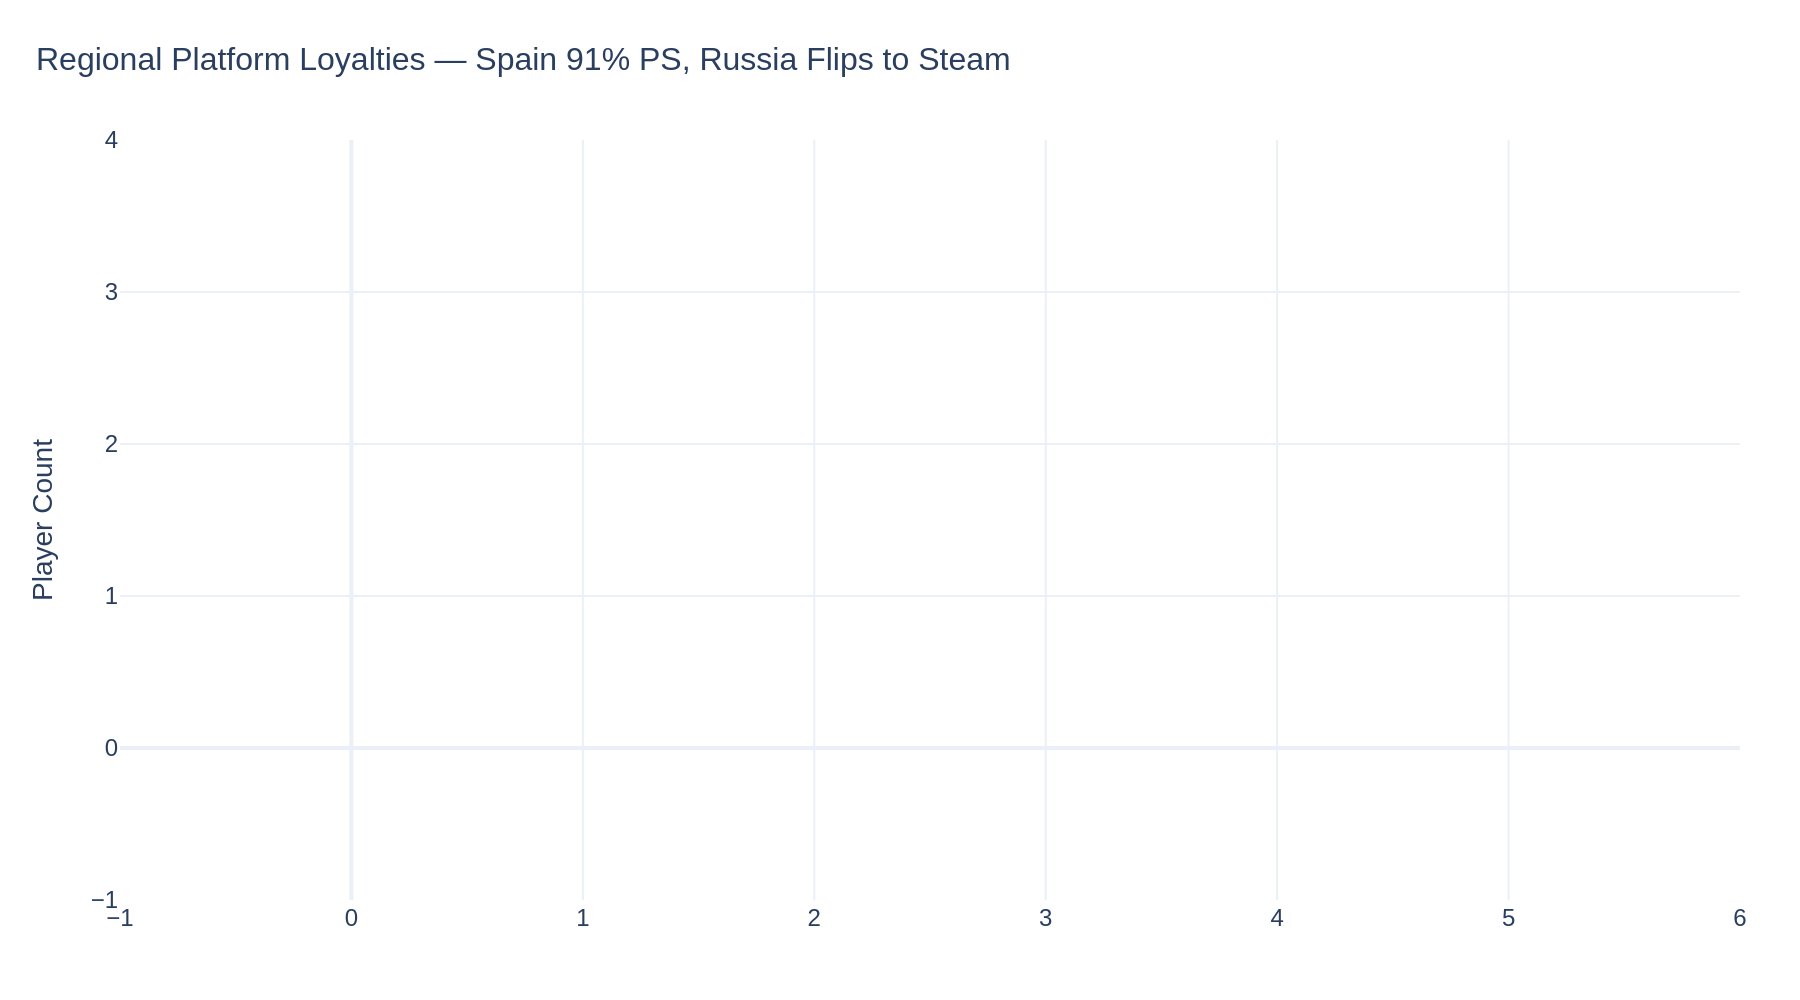
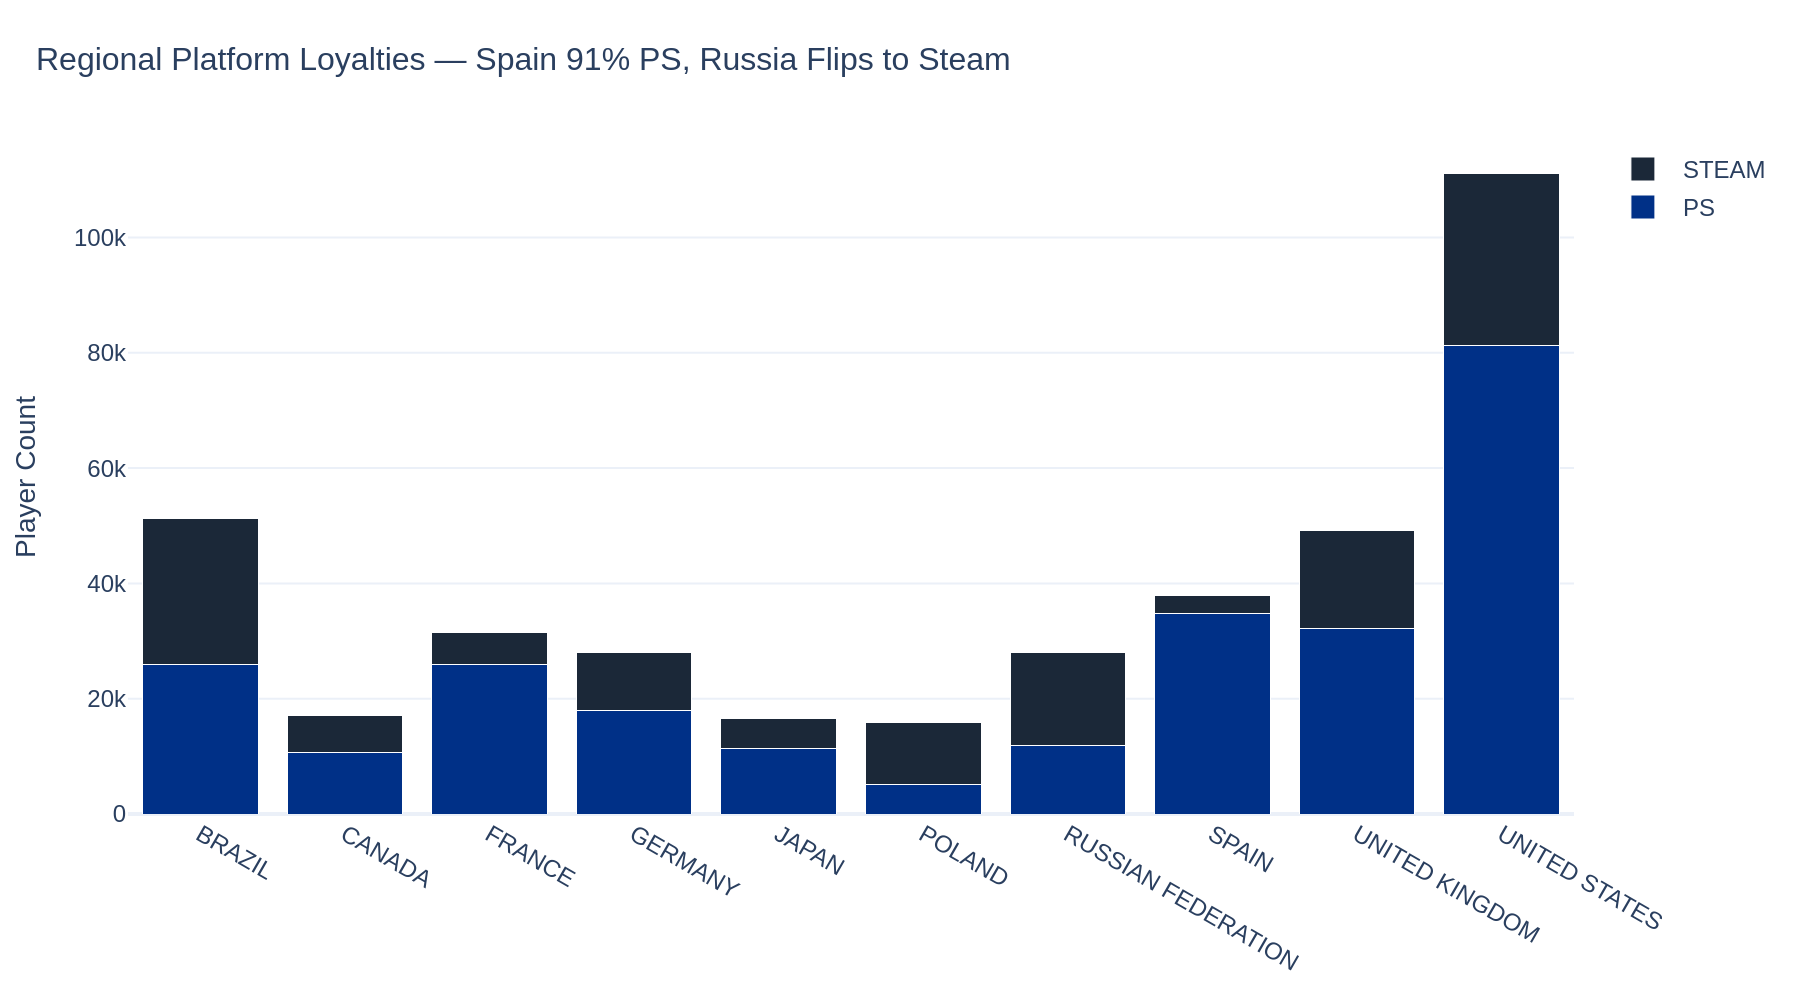
fix: add elbow chart, fix geographic chart PNG, update README with elbow method

diff --git a/README.md b/README.md
@@ -71,8 +71,9 @@ Three models validated the patterns found in SQL:
 ![Feature Importance](charts/ml_rf_feature_importance.png)
 ![LR Coefficients](charts/ml_lr_coefficients.png)
 
-**K-Means Clustering** — finds natural game segments without labels. Clusters align with the exclusive-vs-multi divide, confirming the structure is real.
+**K-Means Clustering** — finds natural game segments without labels. The elbow method identified K=4 as optimal. Clusters align with the exclusive-vs-multi divide, confirming the structure is real.
 
+![Elbow Method](charts/ml_kmeans_elbow.png)
 ![K-Means Clusters](charts/ml_kmeans_clusters.png)
 
 ## Findings Summary
